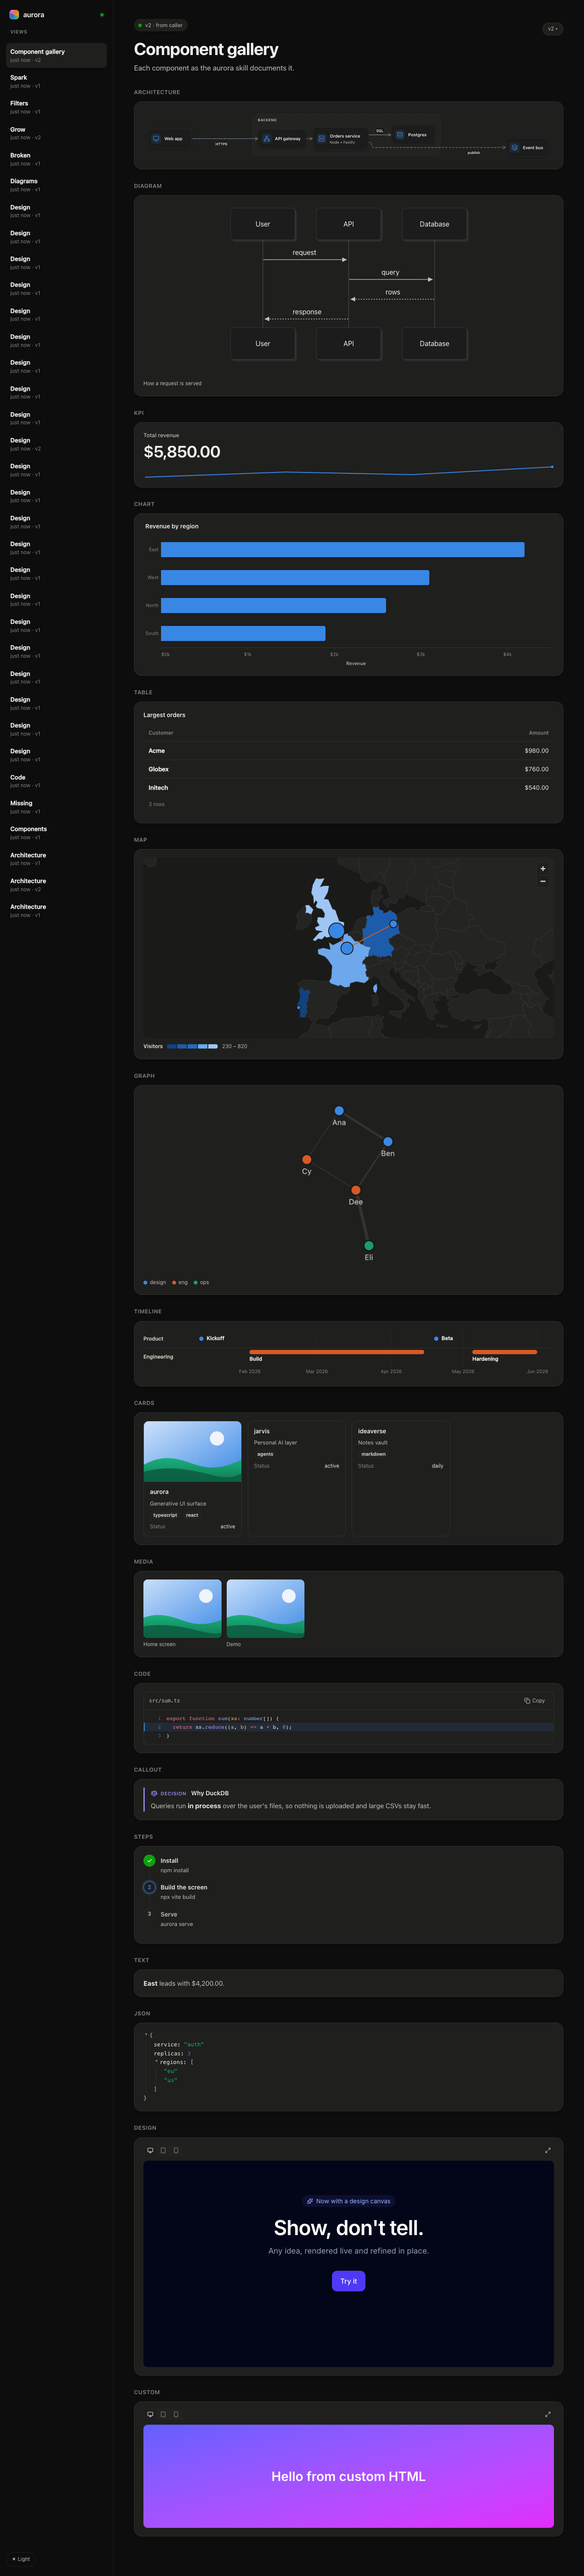
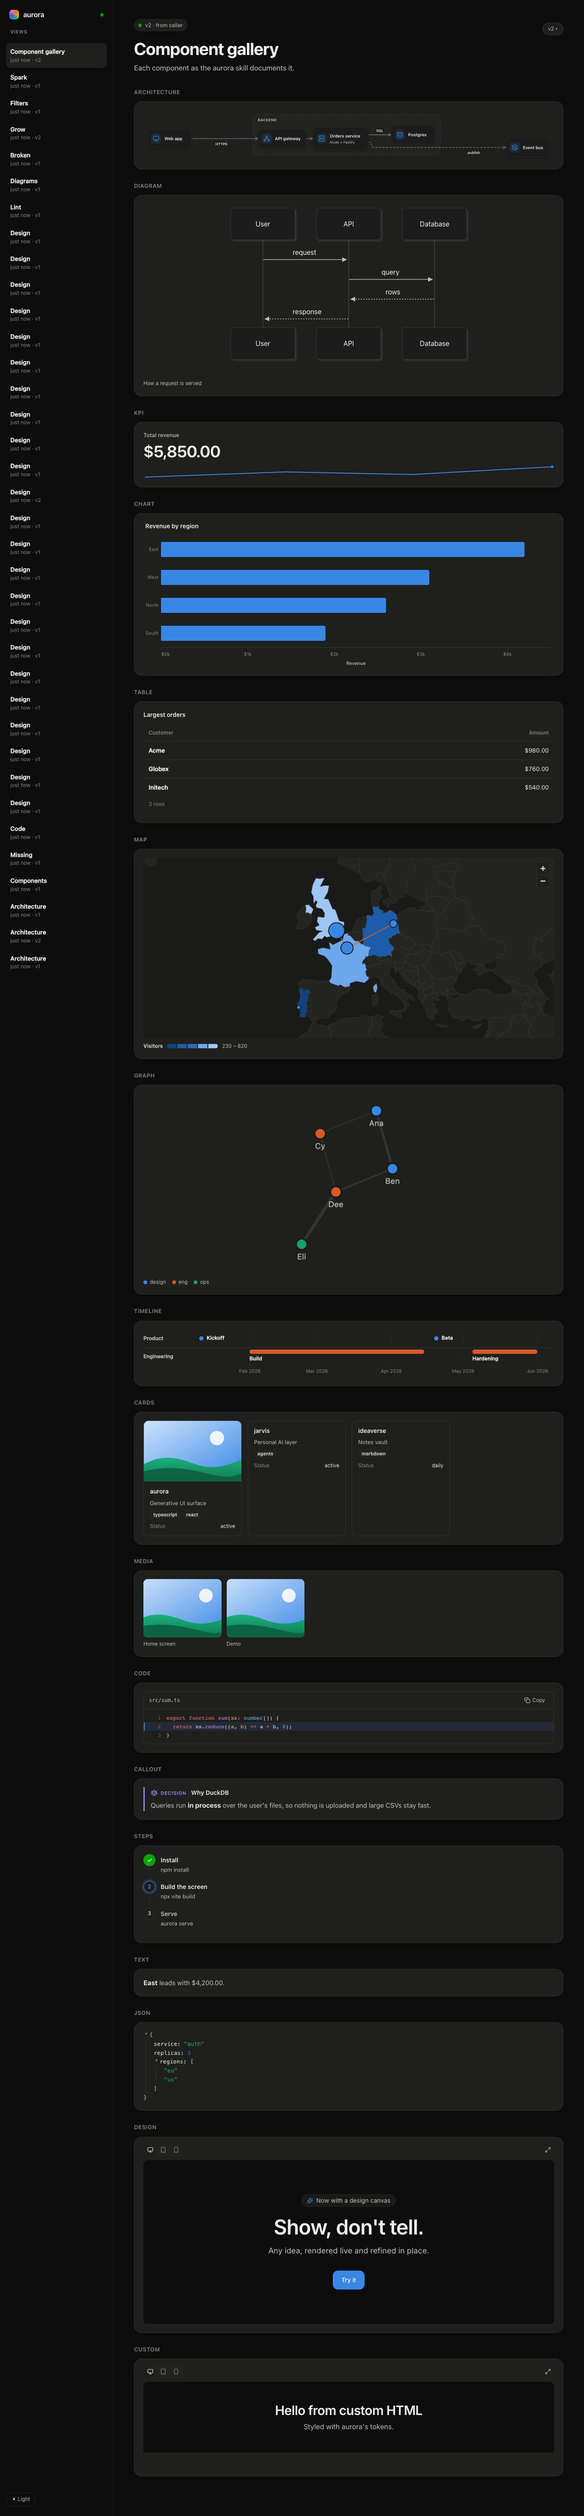
feat(screen): staggered entrances and soft version transitions

diff --git a/packages/renderer/src/components/Section.tsx b/packages/renderer/src/components/Section.tsx
@@ -1,7 +1,7 @@
-import { AnimatePresence, motion } from "motion/react";
+import { AnimatePresence, motion, useReducedMotion } from "motion/react";
 import type { Item, Problem, Section as SectionT, ViewItem } from "@aurora/spec";
 import { packRows } from "../layout.ts";
-import { SPRING, SPRING_SOFT, STAGGER_S, shouldGlow } from "../motion.tsx";
+import { SPRING, SPRING_SOFT, enterDelay, shouldGlow } from "../motion.tsx";
 import type { RenderCtx } from "../registry.tsx";
 import { ItemFrame } from "./ItemFrame.tsx";
 import { Tabs } from "./Tabs.tsx";
@@ -16,6 +16,8 @@ export type SectionProps = {
   changed: Record<string, number>;
   /** This is the view's first section: its first item may be a full-width hero. */
   leads?: boolean;
+  /** Position of this section in the view, for the opening stagger. */
+  order?: number;
 };
 
 /**
@@ -26,7 +28,8 @@ export const itemProblem = (problems: Problem[], id: string) => problems.find((p
 
 const isBleed = (item: ViewItem) => (item.c.type === "design" || item.c.type === "custom") && item.c.display === "hero";
 
-function Grid({ section, version, problems, ctxFor, heroId, viewId, changed, leads }: SectionProps) {
+function Grid({ section, version, problems, ctxFor, heroId, viewId, changed, leads, order = 0 }: SectionProps) {
+  const reduced = useReducedMotion() ?? false;
   const bleedId = leads && section.items[0] && isBleed(section.items[0]) ? section.items[0].id : undefined;
   const packed = packRows(section.items.map((i) => ({ ...i, span: i.span ?? 12 })) as Item[]) as (ViewItem & { span: number })[];
   return (
@@ -39,8 +42,8 @@ function Grid({ section, version, problems, ctxFor, heroId, viewId, changed, lea
               data-glow={glow ? "true" : undefined}
               className={item.id === bleedId ? "bleed" : `card${item.id.startsWith("d_") ? " default" : ""}`}
               style={{ gridColumn: item.id === bleedId ? "1 / -1" : `span ${item.span}` }}
-              initial={{ opacity: 0, y: 12, scale: 0.985 }}
-              animate={{ opacity: 1, y: 0, scale: 1, transition: { ...SPRING_SOFT, delay: Math.min(i, 10) * STAGGER_S } }}
+              initial={reduced ? false : { opacity: 0, y: 12, scale: 0.985 }}
+              animate={{ opacity: 1, y: 0, scale: 1, transition: { ...SPRING_SOFT, delay: enterDelay(order, i) } }}
               exit={{ opacity: 0, scale: 0.98, transition: SPRING }}>
               {glow && <span key={version} className="glow" aria-hidden />}
               <ItemFrame item={item} version={version} changedAt={changed[item.id]} ctx={item.id === bleedId ? { ...ctxFor(item, false), bleed: true } : ctxFor(item, item.id === heroId)} problem={itemProblem(problems, item.id)} showTitle={item.id !== bleedId} />

diff --git a/packages/renderer/src/App.tsx b/packages/renderer/src/App.tsx
@@ -1,9 +1,9 @@
 import { useCallback, useEffect, useMemo, useRef, useState } from "react";
 import type { ScreenMessage, View, ViewEvent, ViewItem } from "@aurora/spec";
 import { fillPlaceholders } from "./format.ts";
-import { AnimatePresence, useReducedMotion } from "motion/react";
+import { AnimatePresence, motion, useReducedMotion } from "motion/react";
 import { Section } from "./components/Section.tsx";
-import { MotionRoot, SPRING } from "./motion.tsx";
+import { ENTER_EASE, MotionRoot, SPRING } from "./motion.tsx";
 import { VersionStrip } from "./components/VersionStrip.tsx";
 import { FilterBar } from "./components/FilterBar.tsx";
 import { PageView } from "./components/PageView.tsx";
@@ -217,14 +217,16 @@ export function App() {
                   <button onClick={() => setPreview(undefined)}>Back to current</button>
                 </div>
               )}
-              <h1>{view.title}</h1>
-              {view.summary && <p className="summary">{fillPlaceholders(view.summary, results)}</p>}
+              <motion.div key={`head:${currentId}`} className="view-head" initial={reduced ? false : { opacity: 0, y: 10 }} animate={{ opacity: 1, y: 0 }} transition={{ duration: 0.5, ease: ENTER_EASE }}>
+                <h1>{view.title}</h1>
+                {view.summary && <p className="summary">{fillPlaceholders(view.summary, results)}</p>}
+              </motion.div>
               {view.params && Object.keys(view.params).length > 0 && (
                 <FilterBar params={view.params} values={params?.values ?? {}} options={params?.options ?? {}} onChange={(name, value) => send({ t: "param", viewId: currentId, name, value })} />
               )}
               <div key={currentId} className="view-body">{/* a different view is a fresh mount, even when ids repeat */}
                 {view.sections.map((s, i) => (
-                  <Section key={s.id} leads={i === 0} section={s} version={version} problems={problems} ctxFor={ctxFor} heroId={heroId} viewId={currentId} changed={showing ? {} : live?.changed ?? {}} />
+                  <Section key={s.id} leads={i === 0} order={i} section={s} version={version} problems={problems} ctxFor={ctxFor} heroId={heroId} viewId={currentId} changed={showing ? {} : live?.changed ?? {}} />
                 ))}
               </div>
               {viewProblems.length > 0 && <div className="errors">{viewProblems.map((p, i) => <div key={i}>{p.message}</div>)}</div>}

diff --git a/packages/renderer/e2e/motion.spec.ts b/packages/renderer/e2e/motion.spec.ts
@@ -59,3 +59,32 @@ test("the screen follows a newly created view", async ({ page, request }) => {
   await expect(page.locator("h1")).toHaveText("Brand new");
   await expect.poll(async () => (await (await request.get("/api/views/mo_new/status")).json()).unverified).toEqual([]);
 });
+
+const twoSections = (id: string) => ({ v: 2, id, title: "Entrance", summary: "One orchestrated reveal.", sections: [
+  { id: "a", title: "First", layout: "grid", items: [{ id: "a1", span: 12, c: { type: "text", md: "first" } }] },
+  { id: "b", title: "Second", layout: "grid", items: [{ id: "b1", span: 12, c: { type: "text", md: "second" } }] },
+] });
+const opacity = (page: import("@playwright/test").Page, sel: string) => page.locator(sel).evaluate((el) => Number(getComputedStyle(el).opacity));
+
+test("a view enters with a staggered reveal", async ({ page, request }) => {
+  await page.goto("/#mo5");
+  await expect(page.locator(".conn.up")).toBeVisible();
+  await request.post("/api/views", { data: { view: twoSections("mo5") } });
+  await page.locator('[data-item="b1"]').waitFor({ state: "attached" });
+  expect(await opacity(page, '[data-item="b1"]')).toBeLessThan(1);
+  expect(await opacity(page, ".view-head")).toBeLessThan(1);
+  await page.waitForTimeout(900);
+  expect(await opacity(page, '[data-item="b1"]')).toBe(1);
+  expect(await opacity(page, ".view-head")).toBe(1);
+});
+
+test("reduced motion shows everything at once", async ({ page, request }) => {
+  await page.emulateMedia({ reducedMotion: "reduce" });
+  await page.goto("/#mo6");
+  await expect(page.locator(".conn.up")).toBeVisible();
+  await request.post("/api/views", { data: { view: twoSections("mo6") } });
+  await page.locator('[data-item="b1"]').waitFor({ state: "attached" });
+  await page.waitForTimeout(50);
+  expect(await opacity(page, '[data-item="b1"]')).toBe(1);
+  expect(await opacity(page, ".view-head")).toBe(1);
+});

diff --git a/packages/renderer/src/styles.css b/packages/renderer/src/styles.css
@@ -442,3 +442,7 @@ figcaption { font-size: 12px; color: var(--ink2); margin-top: 6px; }
 .bleed { position: relative; min-width: 0; border-radius: 22px; overflow: hidden; margin-bottom: 8px; }
 .design.in-hero .design-stage { border-radius: 22px; }
 .design .open-page.floating { position: absolute; top: 14px; right: 14px; z-index: 5; margin: 0; background: color-mix(in srgb, var(--raised) 80%, transparent); backdrop-filter: blur(10px); box-shadow: var(--shadow); }
+/* A changed item comes into focus: a short blur-to-sharp as its new version lands. */
+.card[data-glow="true"] > .face, .bleed[data-glow="true"] > .face { animation: sharpen 300ms var(--ease); }
+@keyframes sharpen { from { filter: blur(6px); } to { filter: blur(0); } }
+@media (prefers-reduced-motion: reduce) { .card[data-glow="true"] > .face, .bleed[data-glow="true"] > .face { animation: none; } }

diff --git a/packages/renderer/src/motion.tsx b/packages/renderer/src/motion.tsx
@@ -5,6 +5,11 @@ import { MotionConfig } from "motion/react";
 export const SPRING = { type: "spring", stiffness: 380, damping: 32, mass: 0.9 } as const;
 export const SPRING_SOFT = { type: "spring", stiffness: 220, damping: 28 } as const;
 export const STAGGER_S = 0.04;
+/** The opening reveal: header first, then items across sections, 60 ms apart, all in within about 0.7 s. */
+export const ENTER_EASE = [0.22, 1, 0.36, 1] as const;
+export const ENTER_STEP_S = 0.06;
+export const ENTER_MAX_STEPS = 10;
+export const enterDelay = (section: number, index: number) => Math.min(section * 2 + index, ENTER_MAX_STEPS) * ENTER_STEP_S;
 
 /** What components that animate internally may use, without importing the motion library themselves. */
 export type MotionApi = { spring: typeof SPRING; reduced: boolean };
